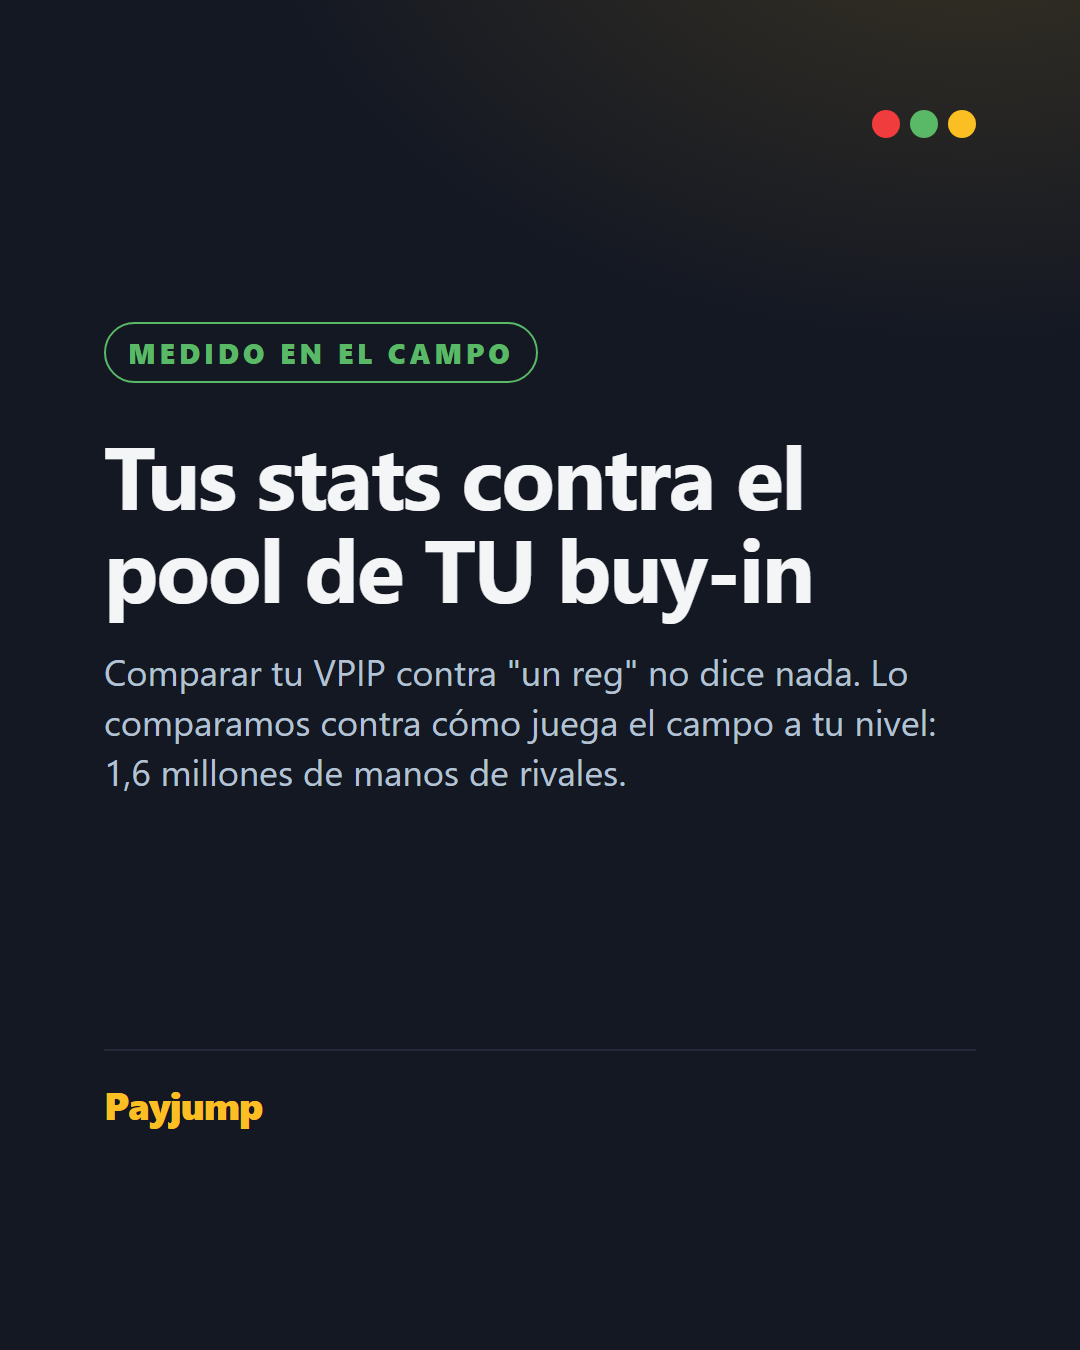
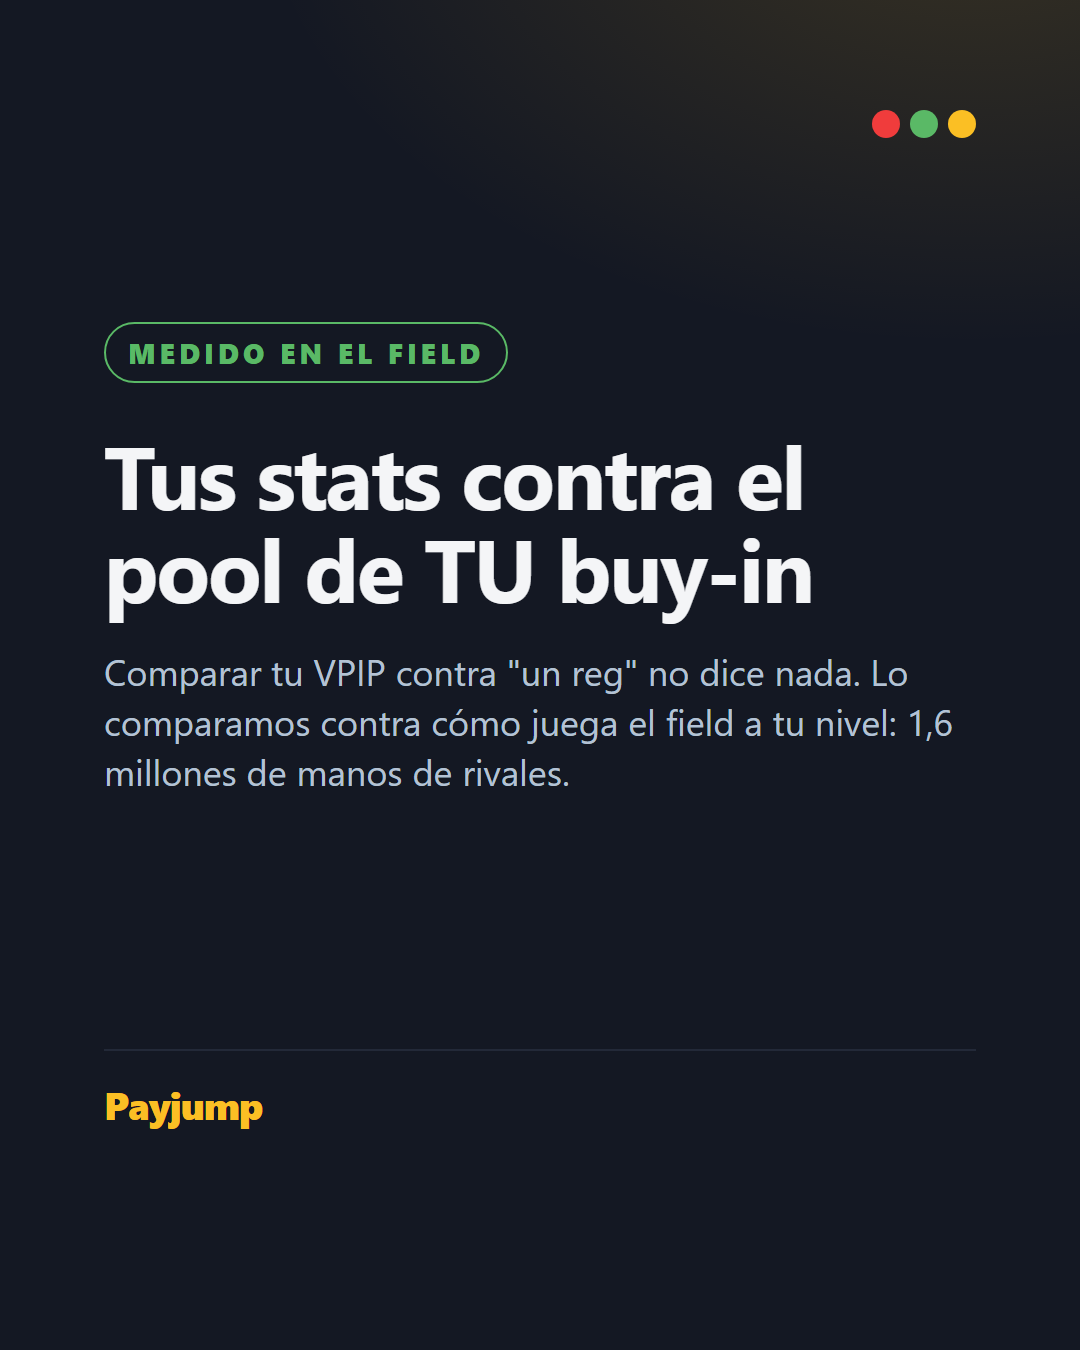
"el field" en vez de "el campo": home e imagenes 07, 13 y 16

Changed region(s): [[0.0917, 0.56, 0.5806, 0.5911], [0.6111, 0.5289, 0.8861, 0.56], [0.3667, 0.2489, 0.4889, 0.28]]

diff --git a/index.html b/index.html
@@ -219,7 +219,7 @@
       <div class="card"><h3>ICM y bounty</h3><p>En burbuja y mesa final los rangos se contraen; con bounty y cubriendo al rival, se expanden. El veredicto lo tiene en cuenta.</p></div>
       <div class="card"><h3>Push/fold anclado en Nash</h3><p>Con 12bb o menos, el chart es el equilibrio: ni "abrir chico" ni "esperar una mejor".</p></div>
       <div class="card"><h3>Postflop por textura</h3><p>C-bet de flop, segundo barril y river, juzgados según el board y quién pagó.</p></div>
-      <div class="card"><h3>Tu nivel contra el pool</h3><p>Tus stats comparadas contra cómo juega el campo a tu buy-in, medido sobre 1,6 millones de manos de rivales.</p></div>
+      <div class="card"><h3>Tu nivel contra el pool</h3><p>Tus stats comparadas contra cómo juega el field a tu buy-in, medido sobre 1,6 millones de manos de rivales.</p></div>
       <div class="card"><h3>Tus manos no salen de tu PC</h3><p>No se conecta a la sala. Lo único que consulta por internet, una vez por día, es si tu suscripción está al día. Cerrala antes de sentarte a jugar.</p></div>
     </div>
     <!-- MAC: el instalador existe (mac.sh, docs/INSTALADOR.md) pero NO se anuncia
@@ -267,7 +267,7 @@
     <details><summary>¿Sirve si todavía no tengo manos cargadas?</summary><p>Sí. El plan de estudio, la teoría, las preguntas, el simulador y los drills funcionan desde el primer día. El diagnóstico y el calentamiento necesitan tus manos: cuando las analizás, el plan se ordena por los errores que más fichas te cuestan.</p></details>
     <details><summary>¿Necesito PokerTracker o Hold'em Manager?</summary><p>No. Lee las manos directo de las carpetas donde tu sala las guarda. Si ya usás PokerTracker 4, podés analizar desde su base en vez de importar; es opcional.</p></details>
     <details><summary>¿Sirve para cash games?</summary><p>No. Está hecho para torneos: stacks cortos, push/fold, ICM en burbuja y mesa final, bounties. Un rango de cash a 100bb no es lo que vas a jugar en un torneo.</p></details>
-    <details><summary>¿De dónde salen los rangos?</summary><p>De rangos de referencia por posición y stack (chip-EV, Nash para push/fold), ajustados por ICM y bounty, y contrastados contra cómo juega el campo real. Podés ver el chart que juzgó cada mano, y editarlo si seguís otra escuela.</p></details>
+    <details><summary>¿De dónde salen los rangos?</summary><p>De rangos de referencia por posición y stack (chip-EV, Nash para push/fold), ajustados por ICM y bounty, y contrastados contra cómo juega el field real. Podés ver el chart que juzgó cada mano, y editarlo si seguís otra escuela.</p></details>
     <details><summary>¿Cómo recibo el programa?</summary><p>Desde la <a href="https://apps.microsoft.com/detail/9P3QQTMGZPZT" rel="noopener">Microsoft Store</a>: el link te llega en el mail de bienvenida apenas se confirma el pago. Las versiones nuevas se instalan solas.</p></details>
     <details><summary>¿Puedo bajarla antes de suscribirme?</summary><p>Sí, la descarga es gratis en la <a href="https://apps.microsoft.com/detail/9P3QQTMGZPZT" rel="noopener">Microsoft Store</a>. Para usarla hay que activarla con el mail de una suscripción: sin eso, se queda en la pantalla de activación.</p></details>
     <details><summary>¿Qué pasa si cancelo?</summary><p>La cancelás sin escribirnos: desde tu cuenta de Mercado Pago, o, si pagás en dólares, desde el link del mail de bienvenida o desde <a href="https://customer-portal.paddle.com/cpl_01m5spvmmqabz5abhd4yga18ht" rel="noopener">el portal de clientes de Paddle</a> (entrás con tu mail). Cuando termina el mes que ya pagaste, la app deja de analizar; tus manos y tu progreso quedan en tu PC, y si volvés a suscribirte seguís donde estabas.</p></details>
